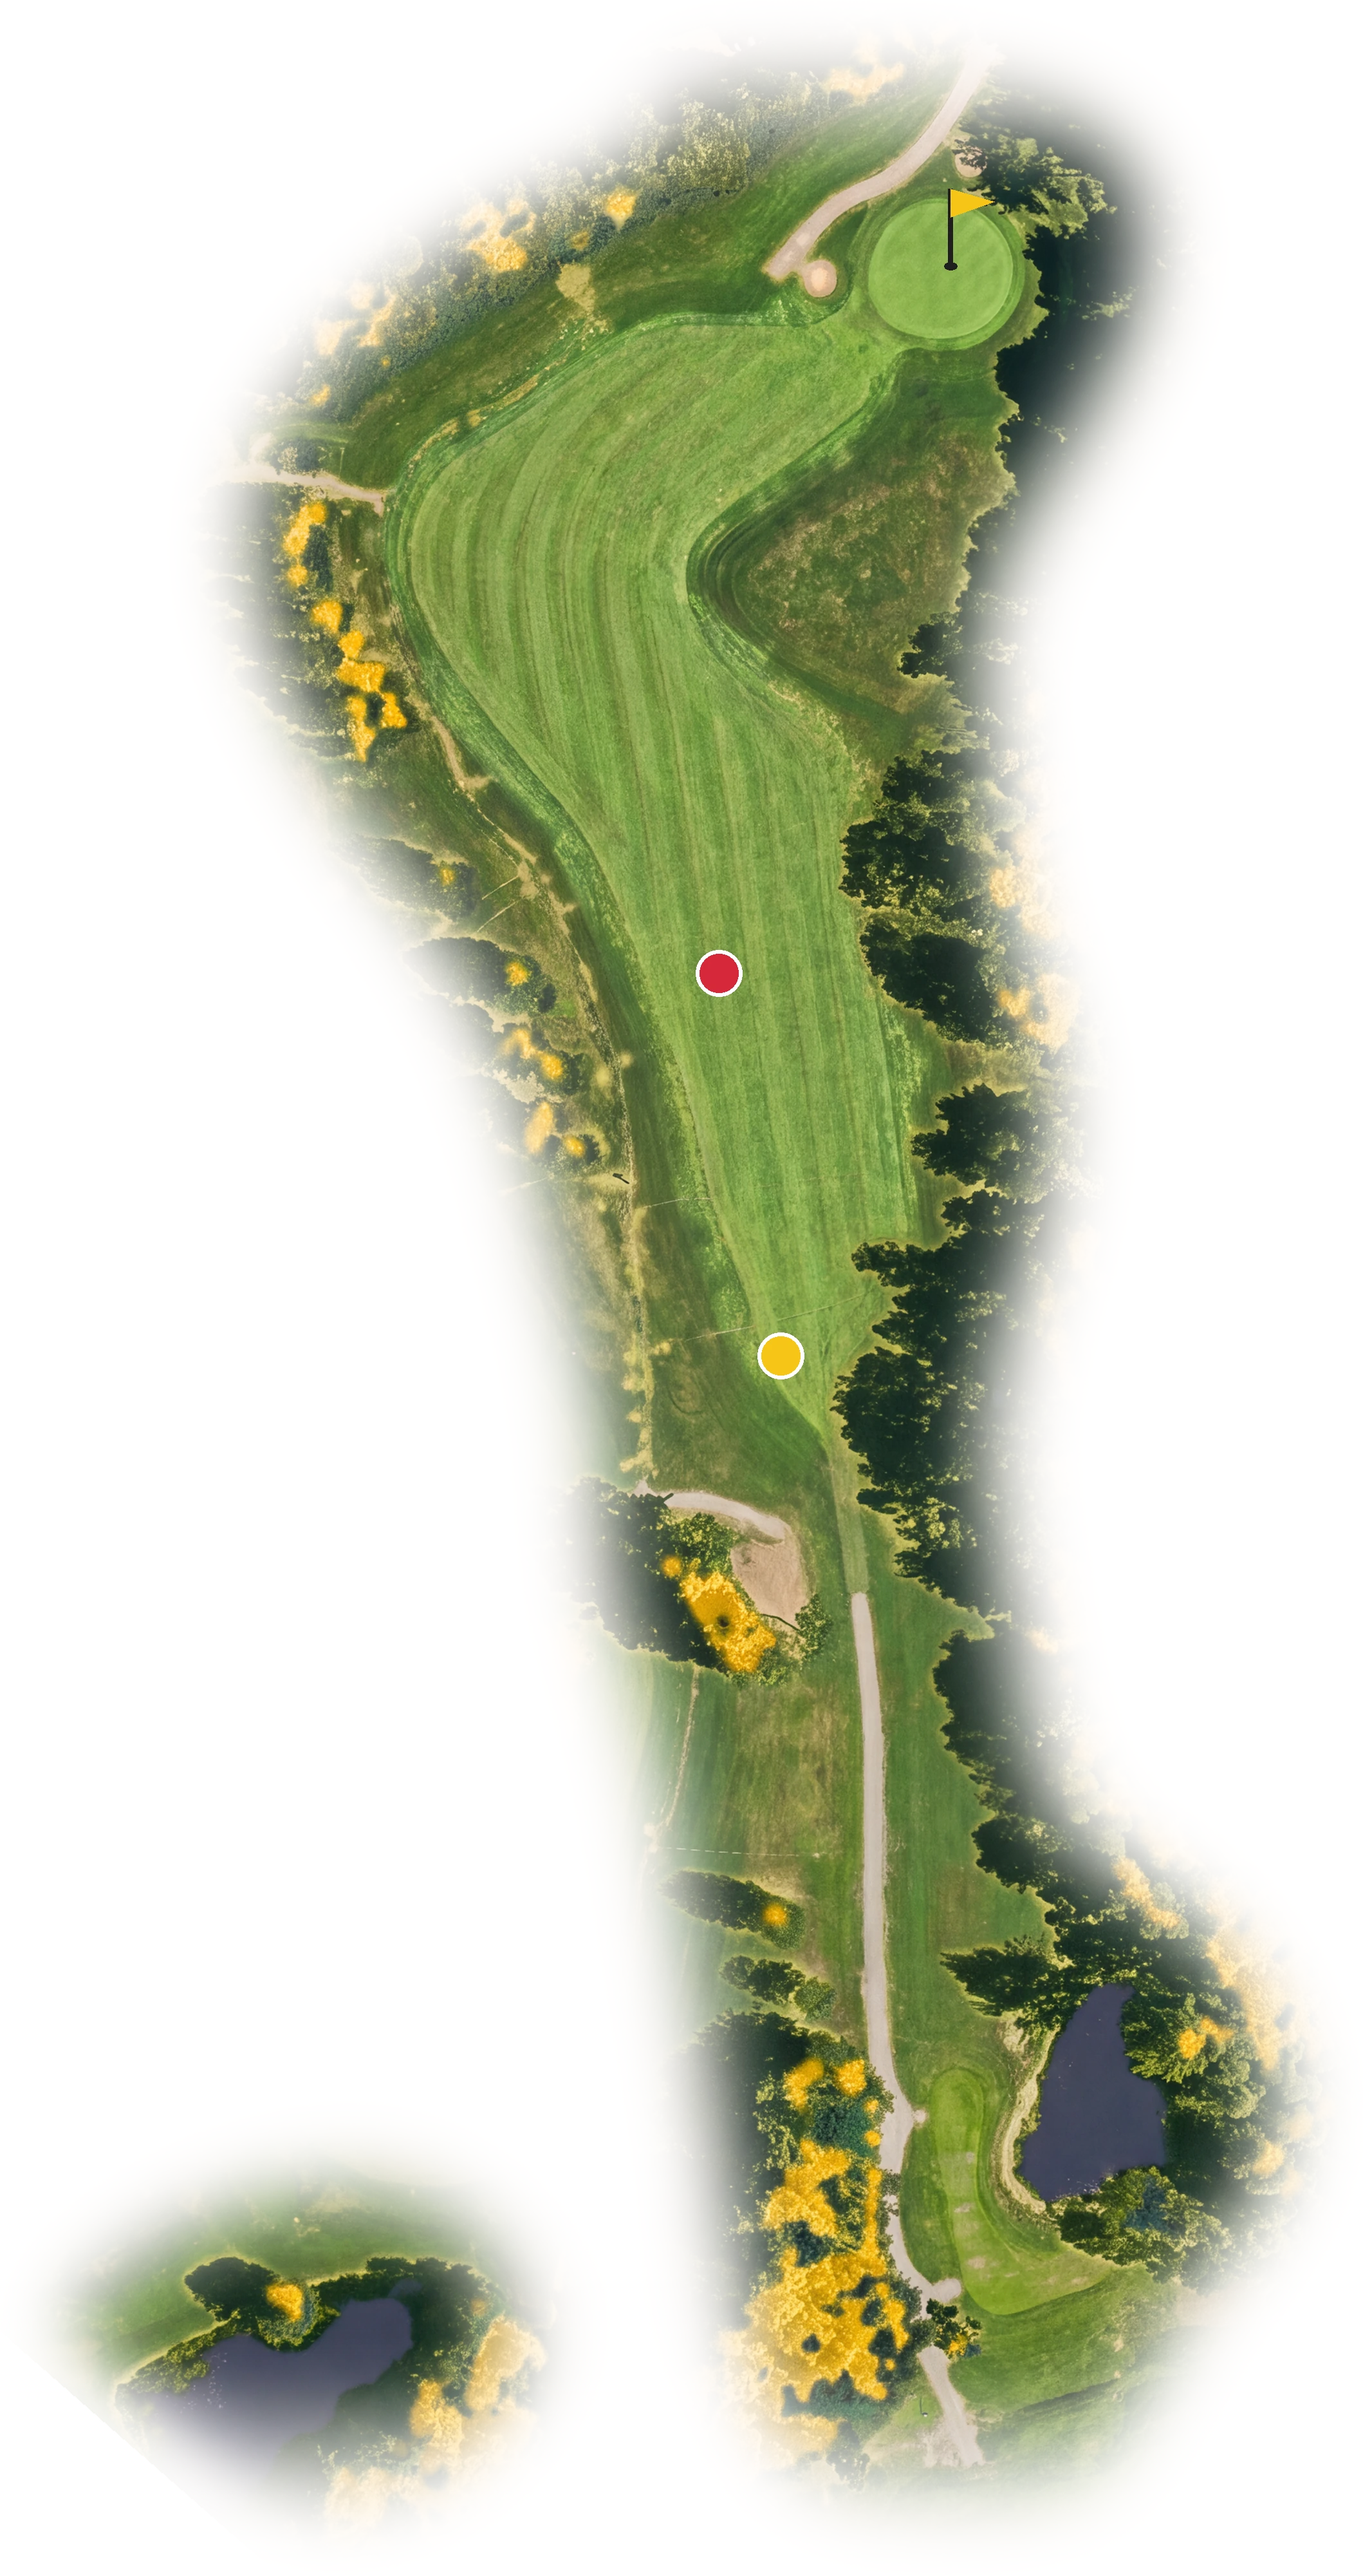
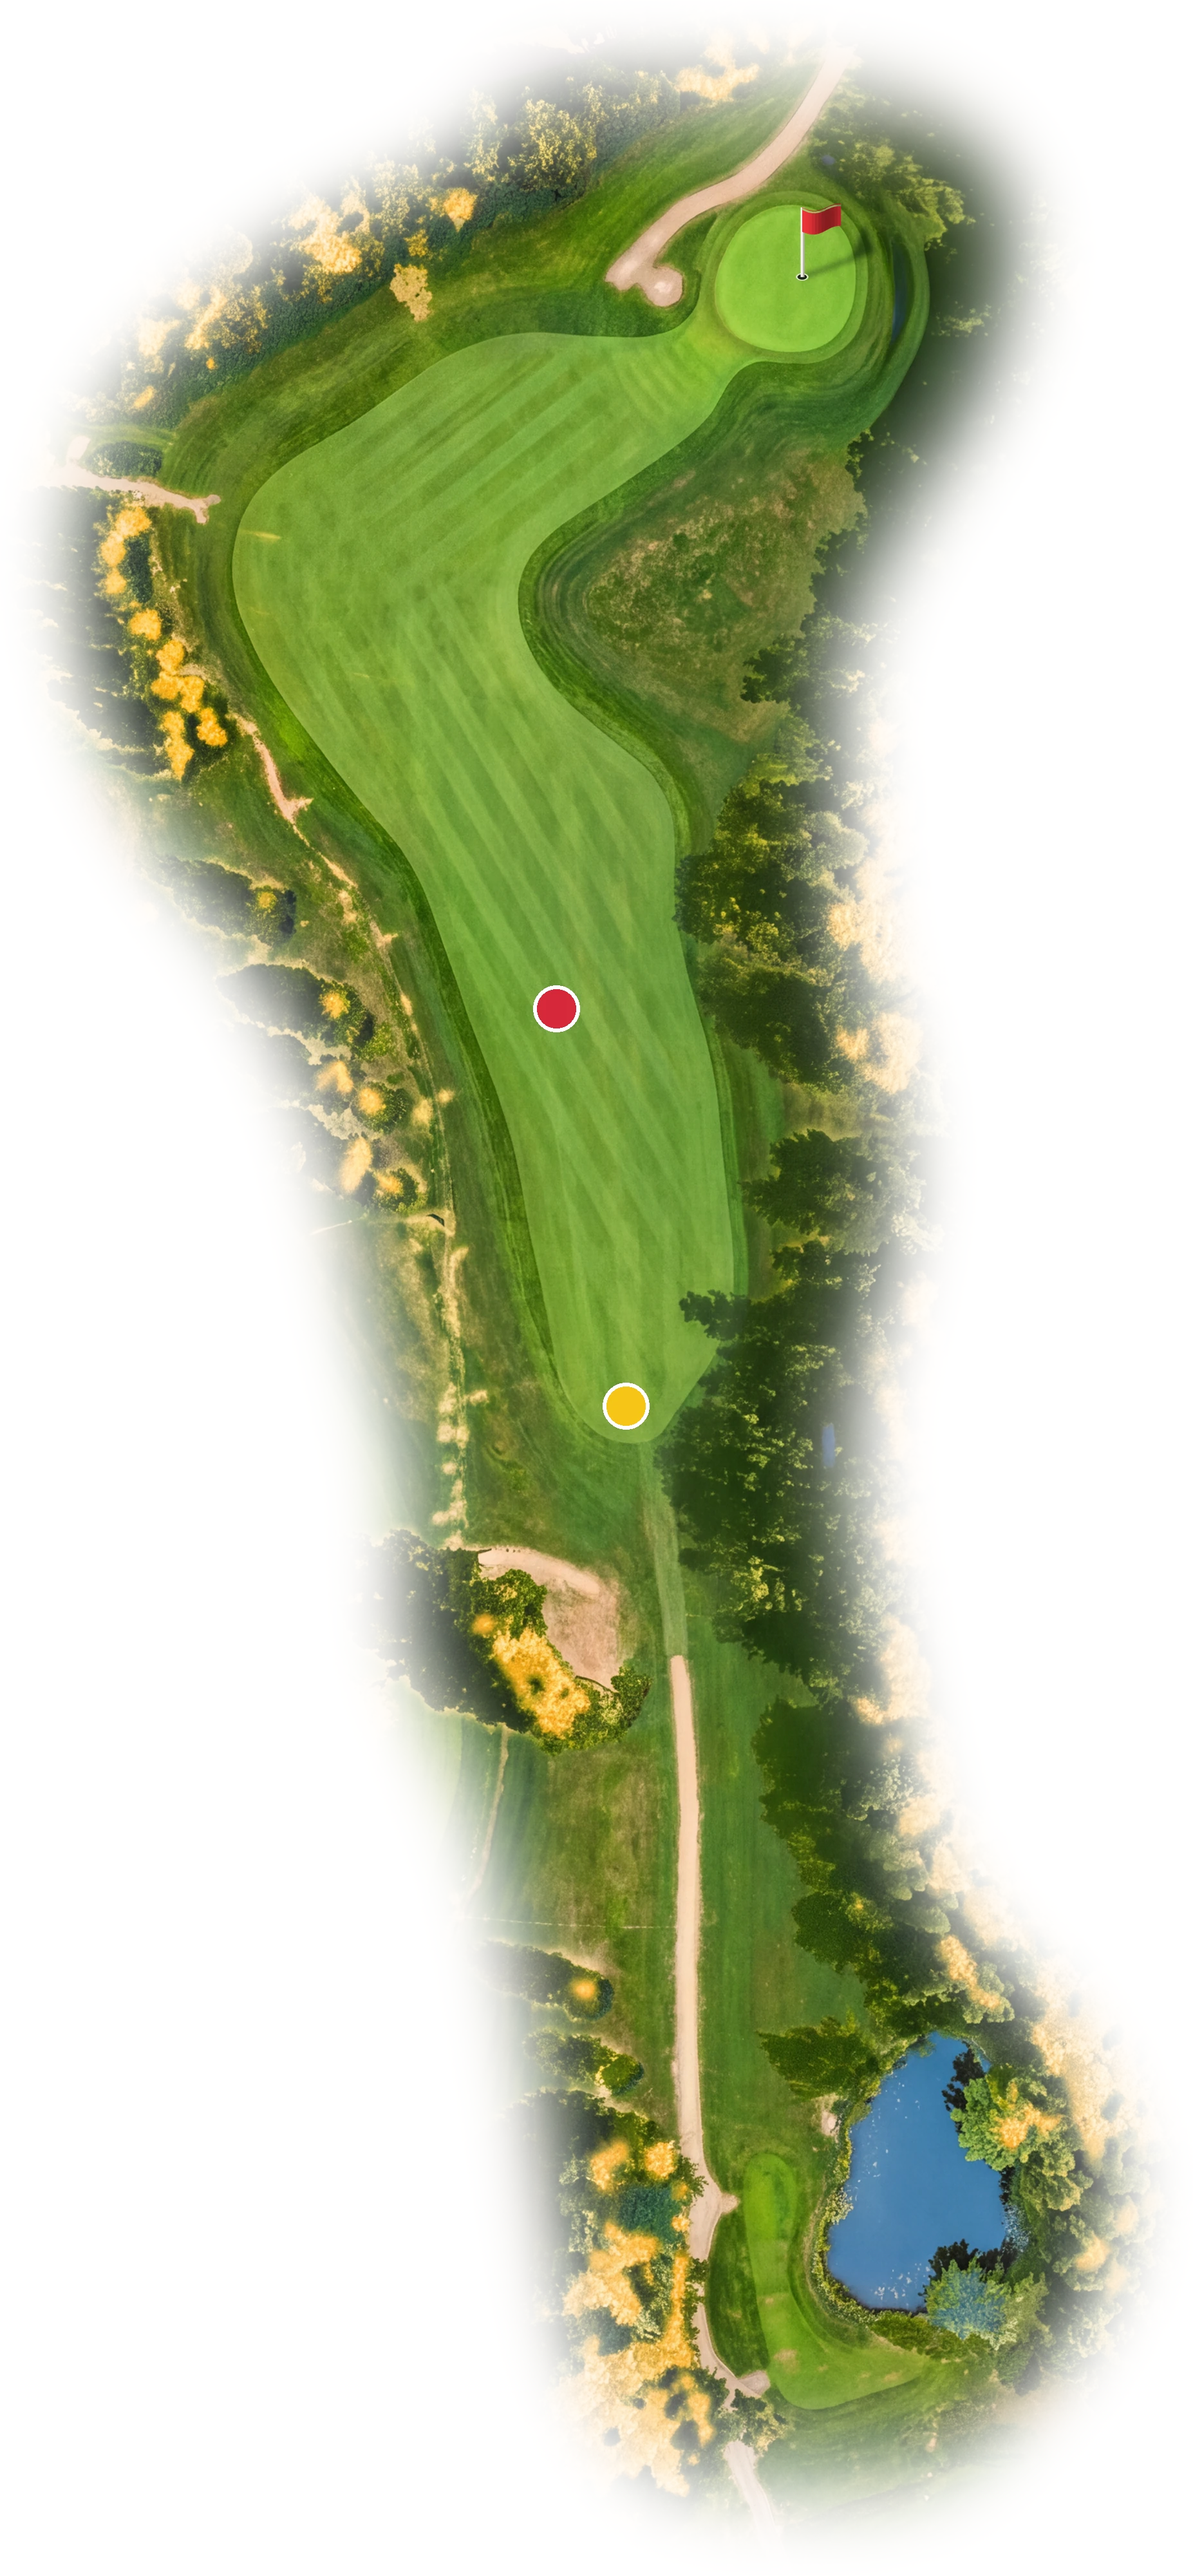
Flaggan ritas som tygflagga med stång, hålkopp och skugga; hål 3 ommålat skarpare
Claude-Session: https://claude.ai/code/session_01KqG1GUsb2FjWm4iUZSnPua

diff --git a/golfholes/render/foto.py b/golfholes/render/foto.py
@@ -274,11 +274,57 @@ def rita_spel(rot: Image.Image, hole: Hole, px) -> None:
             r = 9 * s
             d.ellipse((x - r, y - r, x + r, y + r), fill=farg + (255,), outline=(255, 255, 255, 230), width=max(1, int(1.6 * s)))
     # flagga i greenens mitt
-    x, y = px(*mitt)
-    stang = 30 * s
-    d.line((x, y, x, y - stang), fill=(30, 30, 30, 255), width=max(2, int(2 * s)))
-    d.polygon([(x, y - stang), (x + 17 * s, y - stang + 5 * s), (x, y - stang + 11 * s)], fill=(247, 197, 24, 255))
-    d.ellipse((x - 2.5 * s, y - 1.5 * s, x + 2.5 * s, y + 1.5 * s), fill=(30, 30, 30, 255))
+    _flagga(rot, *px(*mitt), s)
+
+
+FLAGGFARG = (184, 40, 44)
+
+
+def _flagga(rot: Image.Image, x: float, y: float, s: float) -> None:
+    """Flaggan som i målningen: ljus stång, vajande tygflagga med ljus och skugga, hålkopp
+    och en mjuk slagskugga åt höger–uppåt (solen står lågt nere till vänster, som i målningen).
+    Ritas 4 ggr större och skalas ner för mjuka kanter."""
+    k = 4
+    w, h = int(70 * s), int(56 * s)
+    lag = Image.new("RGBA", (w * k, h * k), (0, 0, 0, 0))
+    ox, oy = 14 * s * k, (h - 8 * s) * k  # stångens fot i lagret
+    S = s * k
+    stang = 27 * S
+    # slagskugga: stång och flagga lagda snett bakåt på greenen
+    sk = Image.new("L", lag.size, 0)
+    ds = ImageDraw.Draw(sk)
+    dx, dy = 1.05, -0.38  # skuggans riktning per meter stång
+    topp = (ox + stang * dx, oy + stang * dy)
+    ds.line((ox, oy, *topp), fill=185, width=int(1.3 * S))
+    ds.polygon([topp, (topp[0] - 14 * S * 0.3, topp[1] - 14 * S * 0.9 + 2 * S),
+                (ox + (stang - 9 * S) * dx, oy + (stang - 9 * S) * dy)], fill=160)
+    sk = sk.filter(ImageFilter.GaussianBlur(1.1 * S))
+    lag.paste((10, 30, 10, 255), mask=sk)
+    d = ImageDraw.Draw(lag)
+    # hålkoppen
+    d.ellipse((ox - 2.4 * S, oy - 1.4 * S, ox + 2.4 * S, oy + 1.4 * S), fill=(235, 240, 225, 200))
+    d.ellipse((ox - 1.8 * S, oy - 1.0 * S, ox + 1.8 * S, oy + 1.0 * S), fill=(30, 40, 28, 255))
+    # stången: ljus med skuggsida
+    d.line((ox, oy, ox, oy - stang), fill=(240, 238, 230, 255), width=int(1.3 * S))
+    d.line((ox + 0.6 * S, oy, ox + 0.6 * S, oy - stang), fill=(170, 168, 160, 255), width=max(1, int(0.6 * S)))
+    # tygflaggan: vajande kant (två bågar), ljusare överkant, mörkare veck
+    t0 = oy - stang
+    fl, fh = 15 * S, 9.5 * S
+    upp = [(ox + fl * i / 12, t0 + 1.4 * S * math.sin(i / 12 * math.pi * 1.6)) for i in range(13)]
+    ned = [(ox + fl * i / 12, t0 + fh - 1.0 * S * i / 12 + 1.4 * S * math.sin(i / 12 * math.pi * 1.6)) for i in range(12, -1, -1)]
+    d.polygon(upp + ned, fill=FLAGGFARG + (255,))
+    for i in range(12):  # ljus och skugga i vågorna
+        a = math.cos(i / 12 * math.pi * 1.6)
+        ton = tuple(int(c * (1 + 0.28 * a)) for c in FLAGGFARG)
+        x0 = ox + fl * i / 12
+        x1 = ox + fl * (i + 1) / 12
+        y0u, y1u = upp[i][1], upp[i + 1][1]
+        y0n = t0 + fh - 1.0 * S * i / 12 + 1.4 * S * math.sin(i / 12 * math.pi * 1.6)
+        y1n = t0 + fh - 1.0 * S * (i + 1) / 12 + 1.4 * S * math.sin((i + 1) / 12 * math.pi * 1.6)
+        d.polygon([(x0, y0u), (x1, y1u), (x1, y1n), (x0, y0n)], fill=tuple(min(255, c) for c in ton) + (255,))
+    d.line([(px_, py_ + 0.6 * S) for px_, py_ in upp], fill=(255, 255, 255, 70), width=max(1, int(0.7 * S)))
+    lag = lag.resize((w, h), Image.LANCZOS)
+    rot.alpha_composite(lag, (int(x - ox / k), int(y - oy / k)))
 
 
 TYPSNITT_MARK = Path(__file__).resolve().parent.parent.parent / "assets" / "typsnitt" / "HankenGrotesk-SemiBold.ttf"
